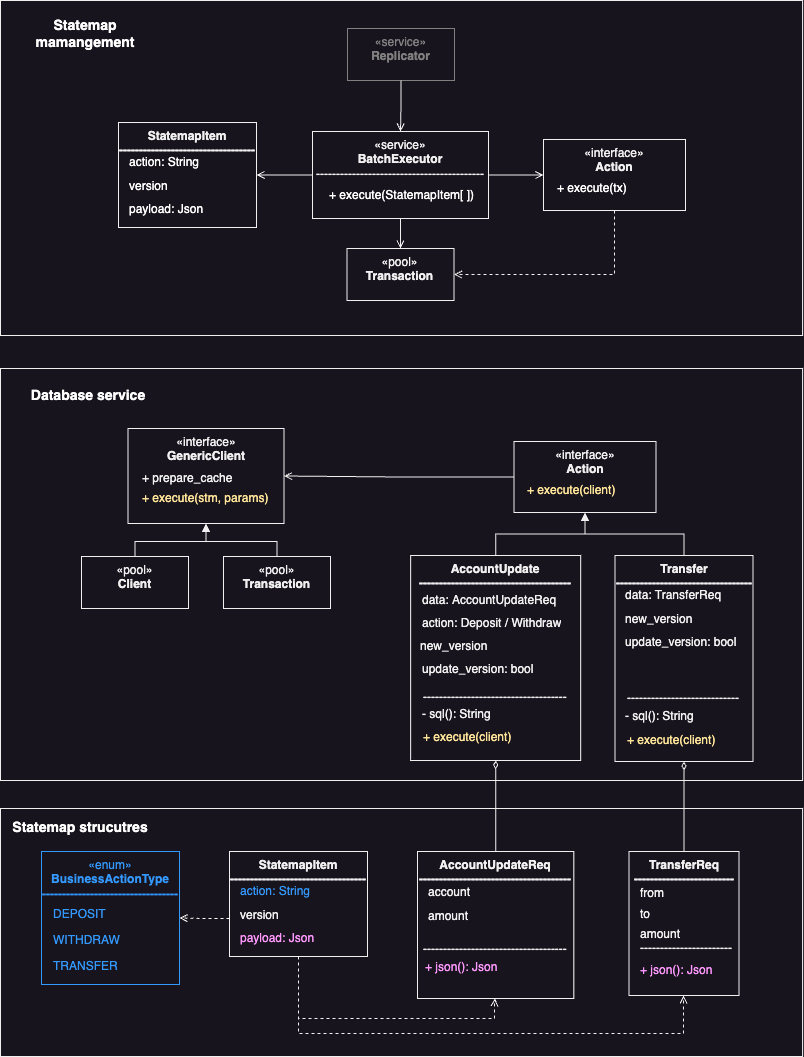
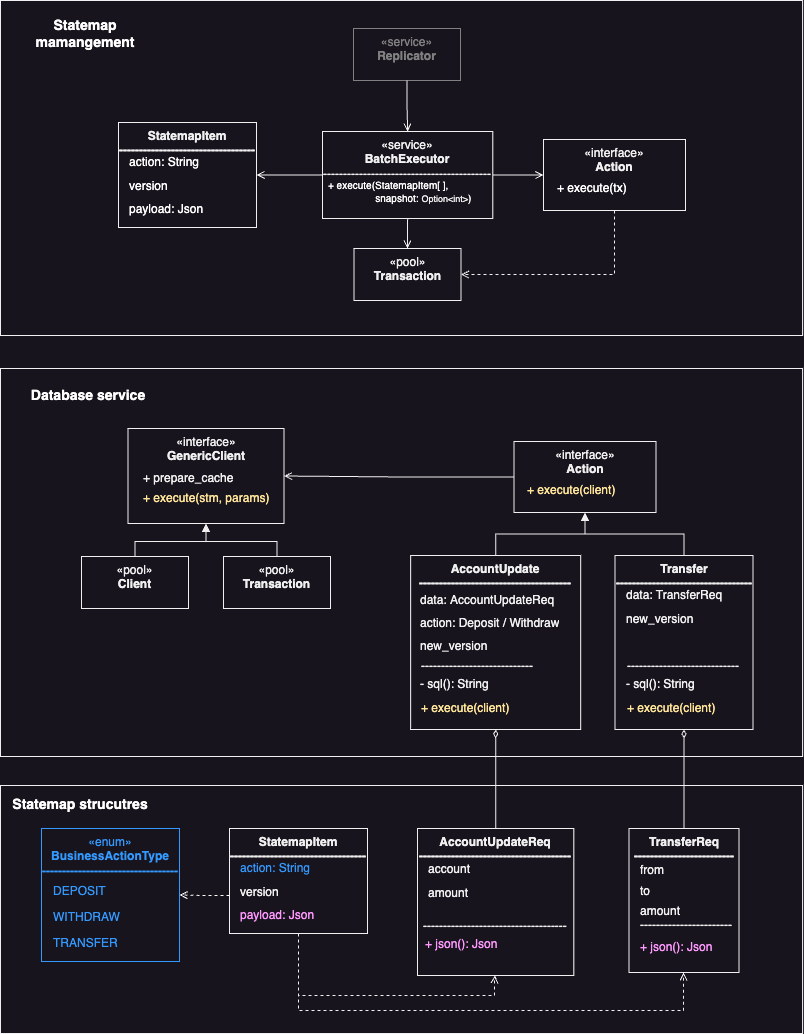
fix: Remove 'update_version' flag.

diff --git a/packages/cohort/src/bank_api.rs b/packages/cohort/src/bank_api.rs
@@ -33,7 +33,7 @@ impl BankApi {
     }
 
     pub async fn deposit(db: Arc<Database>, data: AccountUpdateRequest, new_version: u64) -> Result<u64, String> {
-        AccountUpdate::deposit(data, new_version, true).execute(&db.pool.get().await.unwrap()).await
+        AccountUpdate::deposit(data, new_version).execute(&db.pool.get().await.unwrap()).await
     }
 
     pub async fn withdraw(db: Arc<Database>, data: AccountUpdateRequest, new_version: u64) -> Result<u64, String> {
@@ -41,7 +41,8 @@ impl BankApi {
     }
 
     pub async fn transfer(db: Arc<Database>, from: String, to: String, amount: String, new_version: u64) -> Result<u64, String> {
-        let affected_rows = Self::transfer_one(db, Transfer::new(from.clone(), to.clone(), amount.clone(), new_version, true)).await?;
+        let affected_rows = Self::transfer_one(db, Transfer::new(from.clone(), to.clone(), amount.clone(), new_version)).await?;
+        // TODO, add case when affected_rows = 0, do not fail.
         if affected_rows != 2 {
             Err(format!(
                 "Unable to transfer ${} from '{}' to '{}'. Error: affected rows({}) != 2",
@@ -62,7 +63,6 @@ pub struct AccountUpdate {
     pub data: AccountUpdateRequest,
     pub action: &'static str,
     pub new_version: u64,
-    pub update_version: bool,
 }
 
 impl Display for AccountUpdate {
@@ -76,41 +76,31 @@ impl Display for AccountUpdate {
 }
 
 impl AccountUpdate {
-    pub fn deposit(data: AccountUpdateRequest, new_version: u64, update_version: bool) -> Self {
+    pub fn deposit(data: AccountUpdateRequest, new_version: u64) -> Self {
         Self {
             data: AccountUpdateRequest::new(data.account, data.amount.replace(['-', '+'], "")),
             action: "Deposit",
             new_version,
-            update_version,
         }
     }
 
-    pub fn withdraw(data: AccountUpdateRequest, new_version: u64, update_version: bool) -> Self {
+    pub fn withdraw(data: AccountUpdateRequest, new_version: u64) -> Self {
         Self {
             data: AccountUpdateRequest::new(data.account, format!("-{}", data.amount.replace(['-', '+'], ""))),
             action: "Withdraw",
             new_version,
-            update_version,
         }
     }
 
-    fn sql(update_version: bool) -> &'static str {
-        if update_version {
-            r#"
+    fn sql() -> &'static str {
+        r#"
             UPDATE bank_accounts SET data = data ||
             jsonb_build_object(
                 'amount', ((data->>'amount')::DECIMAL + (($1)::TEXT)::DECIMAL)::TEXT,
                 'talosState', jsonb_build_object('version', ($2)::BIGINT)
             )
-            WHERE "number" = $3 AND (data->'talosState'->'version')::BIGINT < ($2)::BIGINT
+            WHERE "number" = $3 AND (data->'talosState'->'version')::BIGINT <= ($2)::BIGINT
         "#
-        } else {
-            r#"
-            UPDATE bank_accounts SET data = data ||
-            jsonb_build_object('amount', ((data->>'amount')::DECIMAL + (($1)::TEXT)::DECIMAL)::TEXT)
-            WHERE "number" = $3 AND (data->'talosState'->'version')::BIGINT < ($2)::BIGINT
-        "#
-        }
     }
 }
 
@@ -122,7 +112,7 @@ impl Action for AccountUpdate {
     {
         let params: &[&(dyn ToSql + Sync)] = &[&self.data.amount, &(self.new_version as i64), &self.data.account];
 
-        let statement = client.prepare_cached(Self::sql(self.update_version)).await.unwrap();
+        let statement = client.prepare_cached(Self::sql()).await.unwrap();
         client.execute(&statement, params).await.map_err(|e| e.to_string())
     }
 }
@@ -133,7 +123,6 @@ pub struct Transfer {
     pub to: String,
     pub amount: String,
     pub new_version: u64,
-    pub update_version: bool,
 }
 
 impl Display for Transfer {
@@ -143,36 +132,19 @@ impl Display for Transfer {
 }
 
 impl Transfer {
-    pub fn new(from: String, to: String, amount: String, new_version: u64, update_version: bool) -> Transfer {
-        Transfer {
-            from,
-            to,
-            amount,
-            new_version,
-            update_version,
-        }
+    pub fn new(from: String, to: String, amount: String, new_version: u64) -> Transfer {
+        Transfer { from, to, amount, new_version }
     }
 
-    fn sql(update_version: bool) -> &'static str {
-        if update_version {
-            r#"
-            UPDATE bank_accounts SET data = COALESCE(
-                CASE
-                    WHEN "number" = ($2)::TEXT AND (data->'talosState'->>'version')::BIGINT < ($3)::BIGINT THEN data || jsonb_build_object('amount', ((data->>'amount')::DECIMAL - (($1)::TEXT)::DECIMAL)::TEXT, 'talosState', jsonb_build_object('version', ($3)::BIGINT))
-                    WHEN "number" = ($4)::TEXT AND (data->'talosState'->>'version')::BIGINT < ($5)::BIGINT THEN data || jsonb_build_object('amount', ((data->>'amount')::DECIMAL + (($1)::TEXT)::DECIMAL)::TEXT, 'talosState', jsonb_build_object('version', ($5)::BIGINT))
-                END, data)
-            WHERE "number" in(($2)::TEXT, ($4)::TEXT)
+    fn sql() -> &'static str {
+        r#"
+        UPDATE bank_accounts SET data = COALESCE(
+            CASE
+                WHEN "number" = ($2)::TEXT AND (data->'talosState'->>'version')::BIGINT <= ($3)::BIGINT THEN data || jsonb_build_object('amount', ((data->>'amount')::DECIMAL - (($1)::TEXT)::DECIMAL)::TEXT, 'talosState', jsonb_build_object('version', ($3)::BIGINT))
+                WHEN "number" = ($4)::TEXT AND (data->'talosState'->>'version')::BIGINT <= ($5)::BIGINT THEN data || jsonb_build_object('amount', ((data->>'amount')::DECIMAL + (($1)::TEXT)::DECIMAL)::TEXT, 'talosState', jsonb_build_object('version', ($5)::BIGINT))
+            END, data)
+        WHERE "number" in(($2)::TEXT, ($4)::TEXT)
         "#
-        } else {
-            r#"
-            UPDATE bank_accounts SET data = COALESCE(
-                CASE
-                    WHEN "number" = ($2)::TEXT AND (data->'talosState'->>'version')::BIGINT < ($3)::BIGINT THEN data || jsonb_build_object('amount', ((data->>'amount')::DECIMAL - (($1)::TEXT)::DECIMAL)::TEXT)
-                    WHEN "number" = ($4)::TEXT AND (data->'talosState'->>'version')::BIGINT < ($5)::BIGINT THEN data || jsonb_build_object('amount', ((data->>'amount')::DECIMAL + (($1)::TEXT)::DECIMAL)::TEXT)
-                END, data)
-            WHERE "number" in(($2)::TEXT, ($4)::TEXT)
-        "#
-        }
     }
 }
 
@@ -184,7 +156,7 @@ impl Action for Transfer {
     {
         let params: &[&(dyn ToSql + Sync)] = &[&self.amount, &self.from, &(self.new_version as i64), &self.to, &(self.new_version as i64)];
 
-        let statement = client.prepare_cached(Self::sql(self.update_version)).await.unwrap();
+        let statement = client.prepare_cached(Self::sql()).await.unwrap();
         client.execute(&statement, params).await.map_err(|e| e.to_string())
     }
 }

diff --git a/packages/cohort/src/tx_batch_executor.rs b/packages/cohort/src/tx_batch_executor.rs
@@ -25,10 +25,8 @@ impl BatchExecutor {
         let tx = client.transaction().await.unwrap();
 
         let mut batch_async: Vec<BoxFuture<Result<Option<u64>, String>>> = Vec::new();
-        let last_item_nr = batch.len() - 1;
-        for (index, item) in batch.iter().enumerate() {
-            let update_version = index == last_item_nr;
-            let pinned_box: BoxFuture<Result<Option<u64>, String>> = Box::pin(Self::execute_item(item, &tx, update_version));
+        for item in batch.iter() {
+            let pinned_box: BoxFuture<Result<Option<u64>, String>> = Box::pin(Self::execute_item(item, &tx));
             batch_async.push(pinned_box);
         }
 
@@ -67,7 +65,7 @@ impl BatchExecutor {
         Ok(affected_rows)
     }
 
-    async fn execute_item<T>(item: &StatemapItem, client: &T, update_item_version: bool) -> Result<Option<u64>, String>
+    async fn execute_item<T>(item: &StatemapItem, client: &T) -> Result<Option<u64>, String>
     where
         T: GenericClient + Sync,
     {
@@ -83,19 +81,15 @@ impl BatchExecutor {
         let action_outcome = match rslt_parse_type.unwrap() {
             BusinessActionType::TRANSFER => {
                 let data: TransferRequest = serde_json::from_value(item.payload.clone()).map_err(|e| e.to_string())?;
-                Some(
-                    Transfer::new(data.from, data.to, data.amount, item.version, update_item_version)
-                        .execute(client)
-                        .await?,
-                )
+                Some(Transfer::new(data.from, data.to, data.amount, item.version).execute(client).await?)
             }
             BusinessActionType::DEPOSIT => {
                 let data: AccountUpdateRequest = serde_json::from_value(item.payload.clone()).map_err(|e| e.to_string())?;
-                Some(AccountUpdate::deposit(data, item.version, update_item_version).execute(client).await?)
+                Some(AccountUpdate::deposit(data, item.version).execute(client).await?)
             }
             BusinessActionType::WITHDRAW => {
                 let data: AccountUpdateRequest = serde_json::from_value(item.payload.clone()).map_err(|e| e.to_string())?;
-                Some(AccountUpdate::withdraw(data, item.version, update_item_version).execute(client).await?)
+                Some(AccountUpdate::withdraw(data, item.version).execute(client).await?)
             }
         };
 
